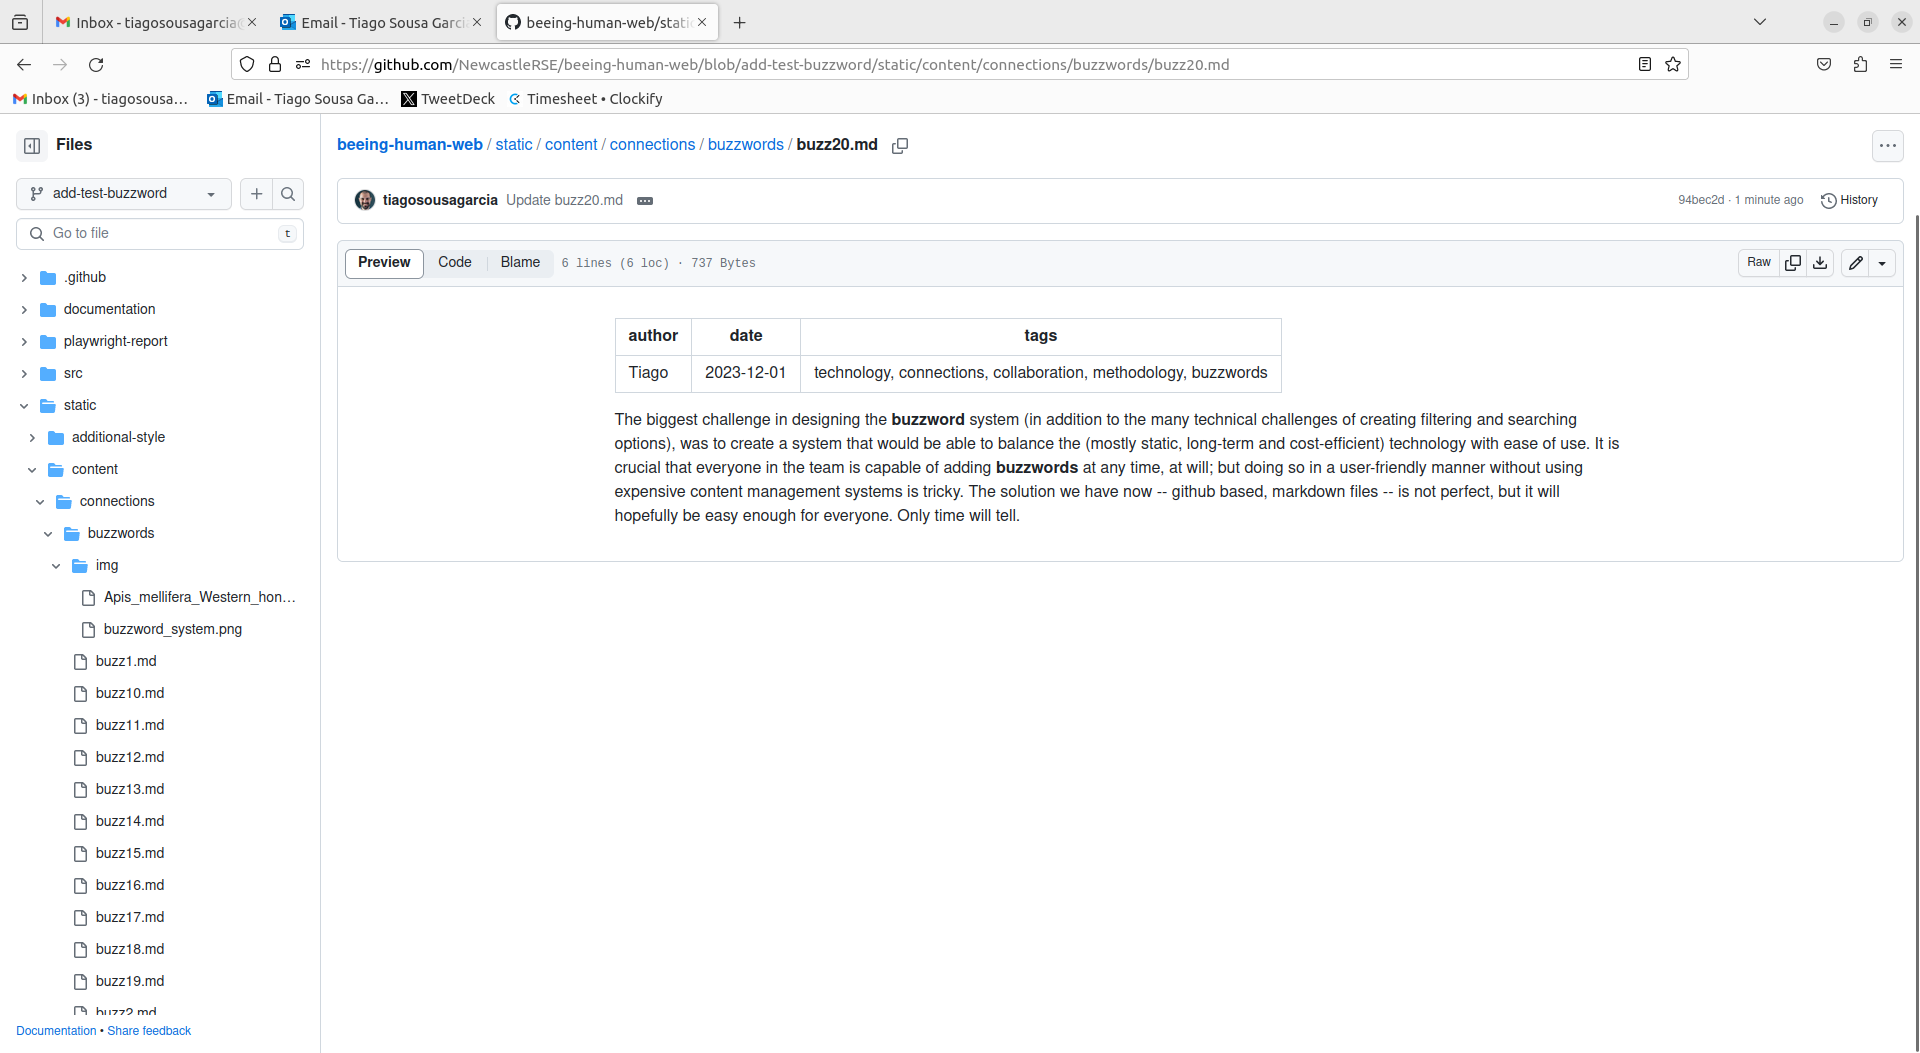
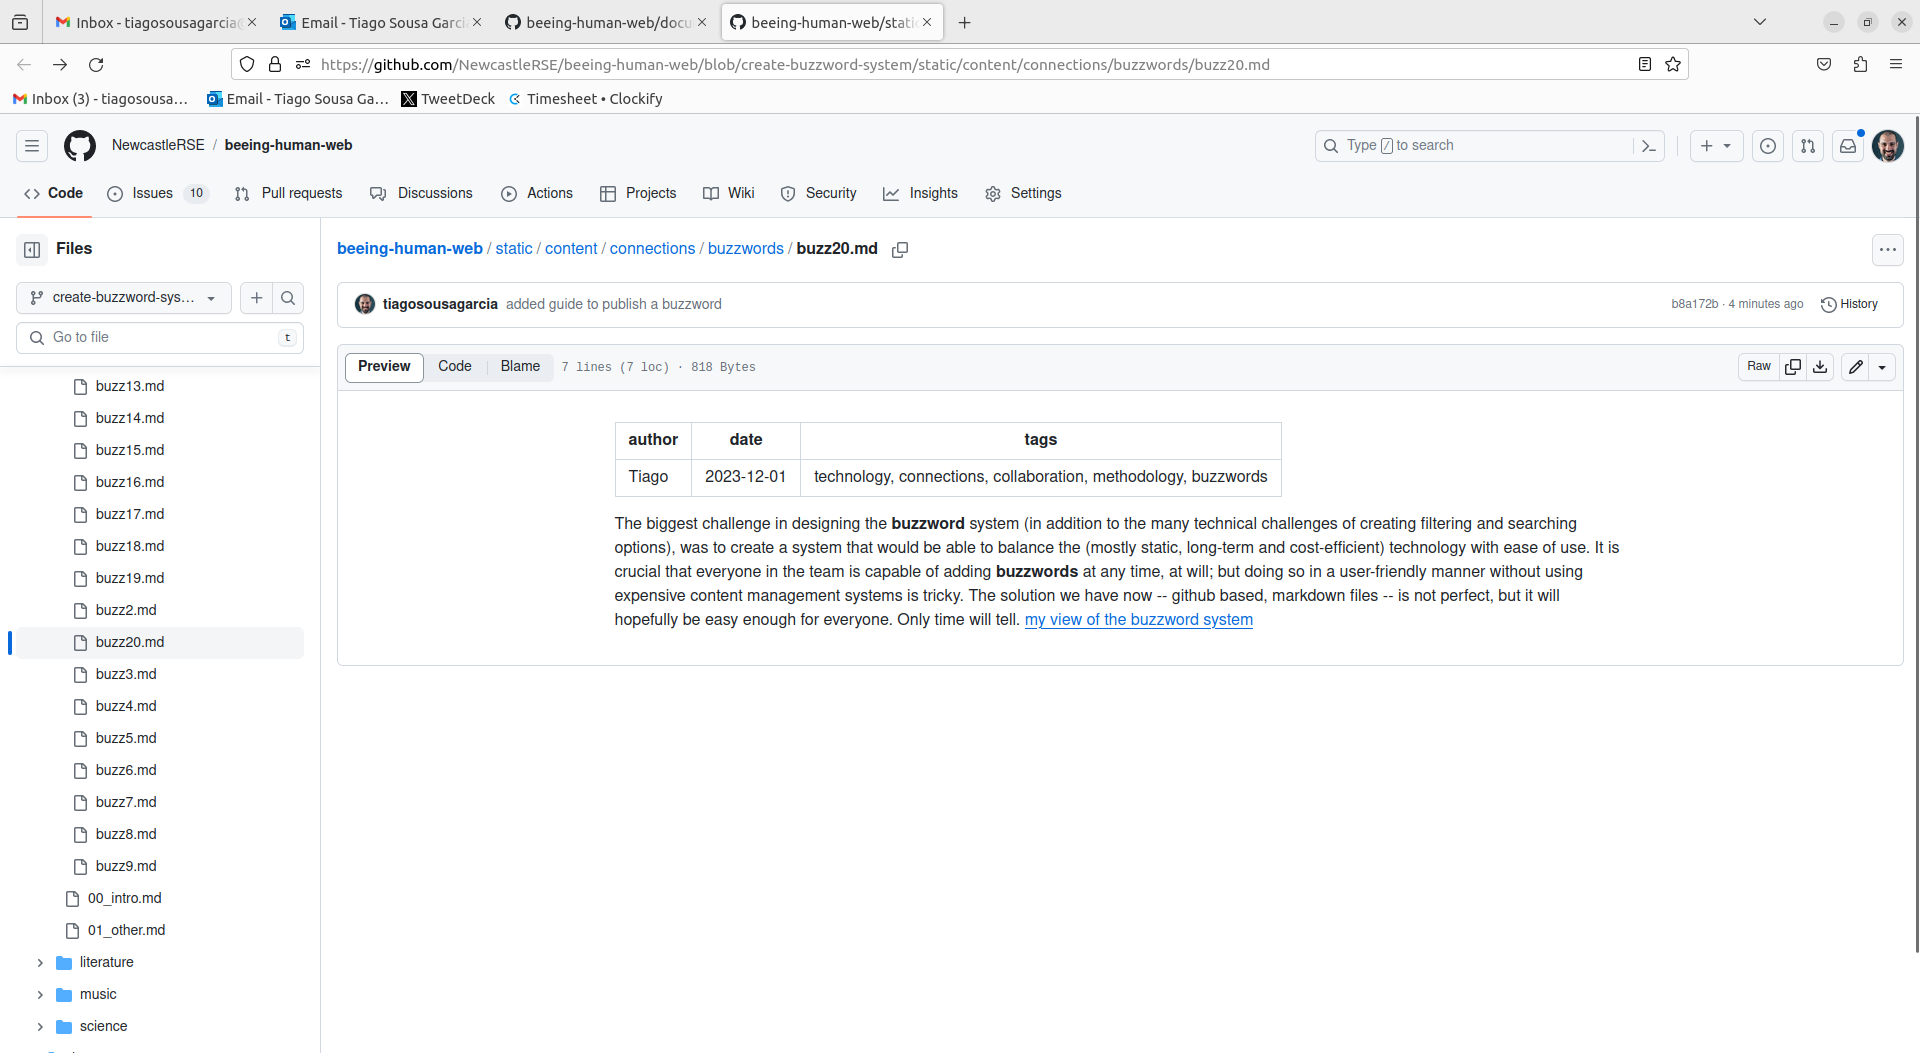
corrected typo

diff --git a/documentation/add-buzzword/README.md b/documentation/add-buzzword/README.md
@@ -1,7 +1,7 @@
 # How to: add a new buzzword to the _Bee Book_
 
 ## Introduction
-**Buzzwords** are the small, paragraph-long thoughts we think should be part of the project in some way, originating from our discussions in the workshops or from our own work. They're meant to be reflexions on process or subject, or only tangentially related to _Bee-ing Human_ work. Anything that is not substantial enough to be a section in the actual book, but that is interesting enough to be shared. They can be found under the _Connections_ view of the book. This short how-to will guide you through the process of creating a new buzzword. Like the reset of the book, buzzwords are written in [markdown](https://www.markdownguide.org/) and, therefore, can use most of the formatting features of markdown (including adding images).
+**Buzzwords** are the small, paragraph-long thoughts we think should be part of the project in some way, originating from our discussions in the workshops or from our own work. They're meant to be reflexions on process or subject, or only tangentially related to _Bee-ing Human_ work. Anything that is not substantial enough to be a section in the actual book, but that is interesting enough to be shared. They can be found under the _Connections_ view of the book. This short how-to will guide you through the process of creating a new buzzword. Like the rest of the book, buzzwords are written in [markdown](https://www.markdownguide.org/) and, therefore, can use most of the formatting features of markdown (including adding images).
 
 ## Requirements
 - A GitHub account. If you need help setting one up, view [this guide](../register-github/README.md)
@@ -62,10 +62,11 @@ tags: technology, connections, collaboration, methodology
 ![my view of the buzzword system](connections/buzzwords/img/buzzword_system.png)
 ```
 
- - You can use the `Preview` button to get a sense of what the finished text will look like. The header should appear as a table -- if it does, it is formattted correctly. If you have any images, they will not be visible in the preview.
+ - You can use the `Preview` button to get a sense of what the finished text will look like. The header should appear as a table -- if it does, it is formattted correctly. If you have any images, they will not be visible in the preview, but you should see a link to the image. If you don't see a link, please make sure the path to the image (the bit in parenthesis in the code above) is correct.
  ![preview](./img/04_preview.png)
 
 - Once you are happy with your buzzword click `Commit changes`
+
 ![commit changes](./img/03_commit_changes.png)
 
 - Feel free to leave all options as default, or add a more extensive description if you wish. Click `Commit changes` on the pop-up window that appeared.
